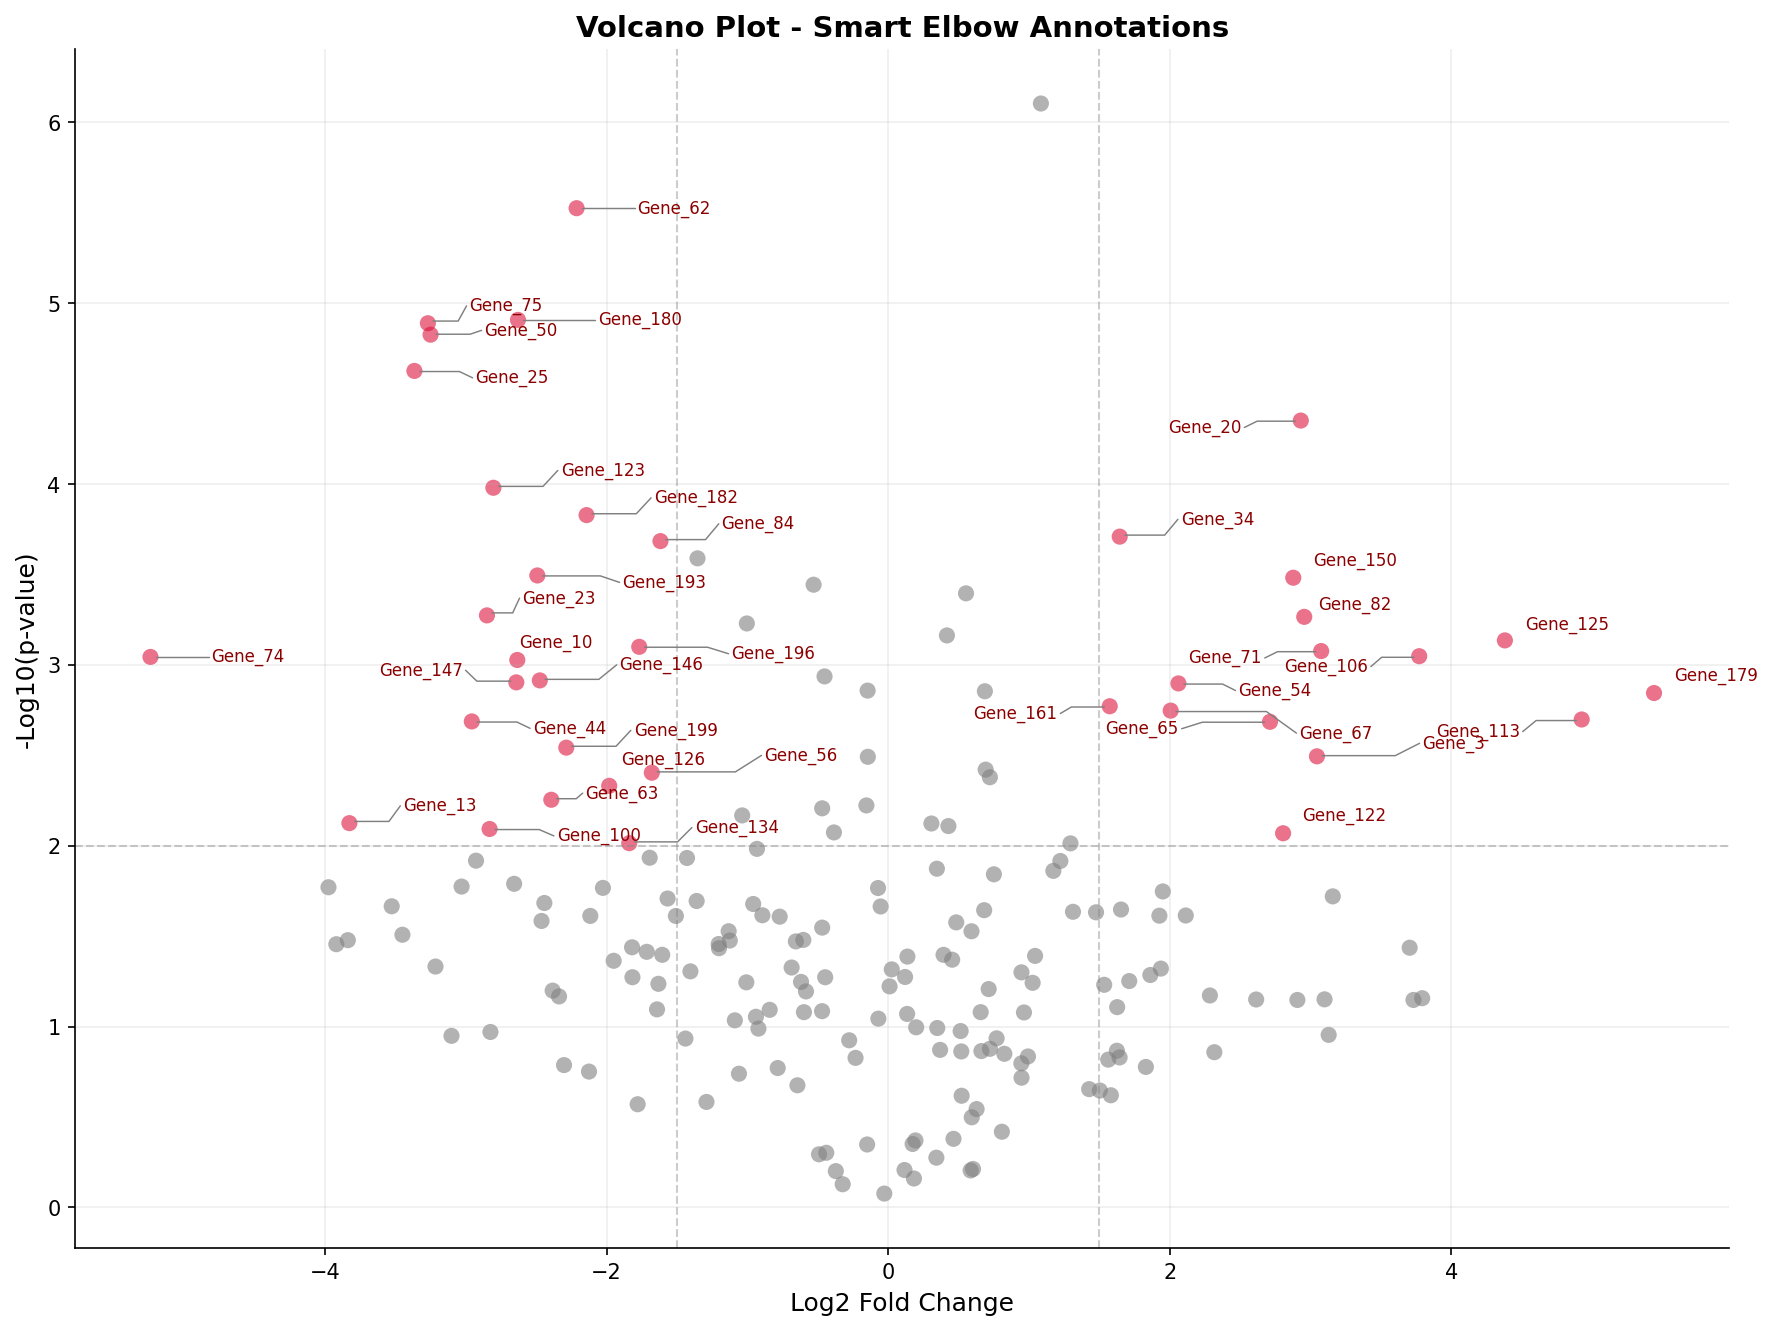
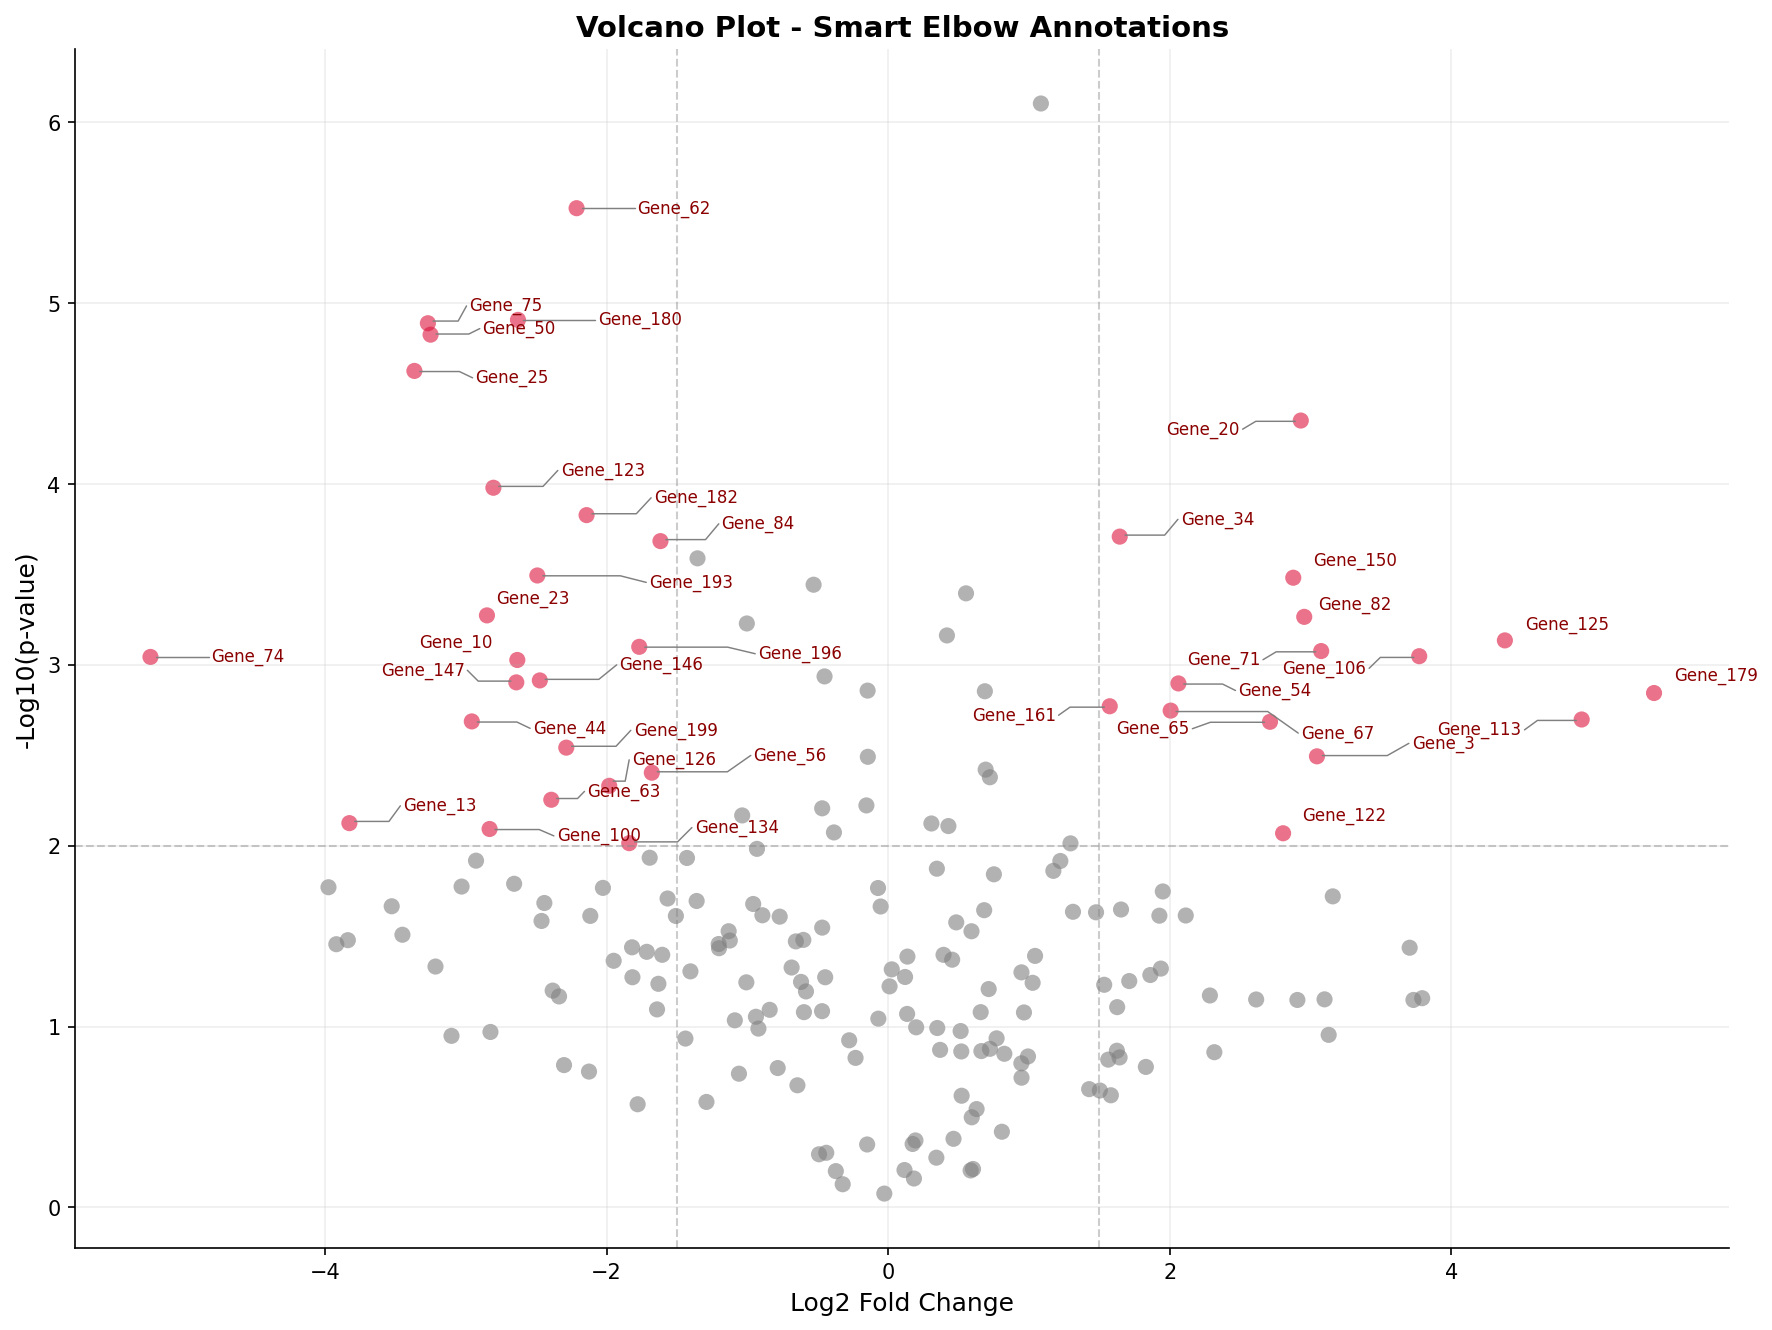
fix: shorter first horizontal segment, just past farthest dot
- First horizontal extends just 3% beyond farthest dot (was 15%)
- Heatmap uses same aligned pattern as margin annotation
- All segments properly aligned to prevent overlap

diff --git a/examples/heatmap_annotation.py b/examples/heatmap_annotation.py
@@ -1,9 +1,10 @@
 """
 Heatmap Row Annotation Example
 
-Demonstrates compact 3-segment connectors for annotating specific rows.
-All segments are SHORT and labels stay close to the heatmap.
-Uses aligned elbow positions to prevent line overlap.
+Same style as margin annotation:
+- All first horizontal segments end at same X (aligned)
+- All third horizontal segments start at same X (aligned)
+- Short segments, labels close to heatmap
 """
 
 import matplotlib.pyplot as plt
@@ -22,54 +23,52 @@ def annotate_heatmap_rows(
     label_color="black",
     line_color="gray",
     linewidth=0.6,
-    min_label_spacing=1.0,
+    min_label_spacing=1.2,
 ):
     """
-    Annotate specific rows in a heatmap with aligned 3-segment connectors.
+    Annotate heatmap rows with aligned 3-segment connectors.
 
-    All connectors have:
-    1. Short horizontal from heatmap edge to elbow_x (aligned)
-    2. Short diagonal from elbow to label_align_x
-    3. Short horizontal from label_align_x to label (aligned)
-
-    Aligned positions prevent line overlap.
+    Same pattern as margin annotation:
+    1. First horizontal: from heatmap edge to elbow_x (all aligned)
+    2. Diagonal: from elbow to label_align_x
+    3. Third horizontal: from label_align_x to label (all aligned)
     """
     xlim = ax.get_xlim()
     artists = []
 
-    # Sort by row position (top to bottom) - prevents crossing
+    # Sort by row position - prevents crossing
     sorted_data = sorted(zip(rows_to_annotate, row_labels), key=lambda x: x[0])
     rows_sorted = [x[0] for x in sorted_data]
     labels_sorted = [x[1] for x in sorted_data]
     n_labels = len(rows_sorted)
 
-    # Calculate label positions - center vertically, maintain order
+    # Center labels vertically, ensure no overlap
     total_height = (n_labels - 1) * min_label_spacing
     y_center = sum(rows_sorted) / n_labels
     y_start = y_center - total_height / 2
     label_y_positions = [y_start + i * min_label_spacing for i in range(n_labels)]
 
     if side == "right":
-        start_x = n_cols - 0.5
-        label_x = xlim[1] - 0.05
-        # Aligned positions - SHORT segments
-        elbow_x = n_cols - 0.5 + 0.2  # All first segments end here
-        label_align_x = label_x - 0.15  # All third segments start here
+        start_x = n_cols - 0.5  # Heatmap edge
+        label_x = xlim[1] - 0.05  # Label position
+        # Aligned positions - just past heatmap edge
+        elbow_x = n_cols - 0.5 + 0.15  # First segments end here
+        label_align_x = label_x - 0.12  # Third segments start here
         ha = "left"
     else:
         start_x = -0.5
         label_x = xlim[0] + 0.05
-        elbow_x = -0.5 - 0.2
-        label_align_x = label_x + 0.15
+        elbow_x = -0.5 - 0.15
+        label_align_x = label_x + 0.12
         ha = "right"
 
     for row, label, label_y in zip(rows_sorted, labels_sorted, label_y_positions):
         # 3-segment connector with aligned positions
         vertices = np.array([
-            [start_x, row],          # Start at heatmap edge
-            [elbow_x, row],          # End of first horizontal (aligned)
+            [start_x, row],           # Start at heatmap edge
+            [elbow_x, row],           # End of first horizontal (aligned)
             [label_align_x, label_y], # Start of third horizontal (aligned)
-            [label_x, label_y],      # At label
+            [label_x, label_y],       # At label
         ])
         codes = [Path.MOVETO, Path.LINETO, Path.LINETO, Path.LINETO]
 
@@ -109,8 +108,8 @@ def main():
     rows_to_annotate = [74, 75, 76]
     row_labels = ["Target_A", "Target_B", "Target_C"]
 
-    # Minimal extension - labels close to heatmap
-    ax.set_xlim(-0.5, n_cols + 1.5)
+    # Small extension for labels
+    ax.set_xlim(-0.5, n_cols + 1.2)
 
     annotate_heatmap_rows(
         ax,
@@ -141,7 +140,7 @@ def main():
     ax.spines["right"].set_visible(False)
     ax.spines["top"].set_visible(False)
 
-    fig.colorbar(im, ax=ax, fraction=0.02, pad=0.1)
+    fig.colorbar(im, ax=ax, fraction=0.02, pad=0.08)
 
     plt.savefig("heatmap_example.png", dpi=150, bbox_inches="tight")
     print("Saved heatmap_example.png")

diff --git a/examples/volcano_plot.py b/examples/volcano_plot.py
@@ -15,34 +15,34 @@ from pyforce import annotate_margin, annotate_points
 def create_volcano_data(n_points=200, seed=42):
     """Generate synthetic volcano plot data."""
     np.random.seed(seed)
-    
+
     log_fc = np.random.randn(n_points) * 2
     neg_log_p = np.abs(np.random.randn(n_points)) * 1.5 + np.abs(log_fc) * 0.3
-    
+
     for idx in [10, 25, 50, 75, 150, 180]:
         log_fc[idx] = np.random.choice([-1, 1]) * (2.5 + np.random.rand())
         neg_log_p[idx] = 3 + np.random.rand() * 2
-    
+
     return log_fc, neg_log_p
 
 
 def create_smart_elbow_figure():
     """Figure 1: Smart elbow annotations using adjustText."""
     log_fc, neg_log_p = create_volcano_data()
-    
+
     significant = (np.abs(log_fc) > 1.5) & (neg_log_p > 2)
     sig_indices = np.where(significant)[0]
     gene_names = [f"Gene_{i}" for i in sig_indices]
-    
+
     fig, ax = plt.subplots(figsize=(12, 9))
-    
+
     colors = np.where(significant, "crimson", "gray")
     ax.scatter(log_fc, neg_log_p, c=colors, s=60, alpha=0.6, edgecolors="none")
-    
+
     ax.axhline(y=2, color="gray", linestyle="--", alpha=0.4, linewidth=1)
     ax.axvline(x=-1.5, color="gray", linestyle="--", alpha=0.4, linewidth=1)
     ax.axvline(x=1.5, color="gray", linestyle="--", alpha=0.4, linewidth=1)
-    
+
     annotate_points(
         ax,
         log_fc,
@@ -61,14 +61,16 @@ def create_smart_elbow_figure():
         expand_points=3.0,
         expand_text=1.6,
     )
-    
+
     ax.set_xlabel("Log2 Fold Change", fontsize=12)
     ax.set_ylabel("-Log10(p-value)", fontsize=12)
-    ax.set_title("Volcano Plot - Smart Elbow Annotations", fontsize=14, fontweight="bold")
+    ax.set_title(
+        "Volcano Plot - Smart Elbow Annotations", fontsize=14, fontweight="bold"
+    )
     ax.grid(True, alpha=0.2)
     ax.spines["top"].set_visible(False)
     ax.spines["right"].set_visible(False)
-    
+
     plt.tight_layout()
     plt.savefig("volcano_elbow.png", dpi=150, bbox_inches="tight")
     print("Saved volcano_elbow.png")
@@ -78,24 +80,24 @@ def create_smart_elbow_figure():
 def create_margin_figure():
     """Figure 2: Margin annotations with aligned 3-segment connectors."""
     log_fc, neg_log_p = create_volcano_data()
-    
+
     significant = (np.abs(log_fc) > 1.5) & (neg_log_p > 2)
     sig_indices = np.where(significant)[0]
     gene_names = [f"Gene_{i}" for i in sig_indices]
-    
+
     fig, ax = plt.subplots(figsize=(14, 9))
-    
+
     colors = np.where(significant, "crimson", "gray")
     ax.scatter(log_fc, neg_log_p, c=colors, s=60, alpha=0.6, edgecolors="none")
-    
+
     ax.axhline(y=2, color="gray", linestyle="--", alpha=0.4, linewidth=1)
     ax.axvline(x=-1.5, color="gray", linestyle="--", alpha=0.4, linewidth=1)
     ax.axvline(x=1.5, color="gray", linestyle="--", alpha=0.4, linewidth=1)
-    
+
     # Expand X region for labels - more on left to avoid Y-axis overlap
     xlim = ax.get_xlim()
     ax.set_xlim(xlim[0] - 3.5, xlim[1] + 3.0)
-    
+
     annotate_margin(
         ax,
         log_fc,
@@ -109,7 +111,7 @@ def create_margin_figure():
         connection_color="gray",
         connection_linewidth=0.5,
     )
-    
+
     ax.set_xlabel("Log2 Fold Change", fontsize=12)
     ax.set_ylabel("-Log10(p-value)", fontsize=12)
     ax.yaxis.set_label_coords(-0.08, 0.5)  # Move Y label left
@@ -118,7 +120,7 @@ def create_margin_figure():
     ax.spines["top"].set_visible(False)
     ax.spines["left"].set_visible(False)
     ax.spines["right"].set_visible(False)
-    
+
     plt.tight_layout()
     plt.savefig("volcano_margin.png", dpi=150, bbox_inches="tight")
     print("Saved volcano_margin.png")

diff --git a/pyforce/annotations.py b/pyforce/annotations.py
@@ -895,12 +895,14 @@ def _create_margin_connector(
         end_x = label_x
         end_y = label_y
 
-        vertices = np.array([
-            [start_x, start_y],
-            [seg1_end_x, seg1_end_y],
-            [seg3_start_x, seg3_start_y],
-            [end_x, end_y],
-        ])
+        vertices = np.array(
+            [
+                [start_x, start_y],
+                [seg1_end_x, seg1_end_y],
+                [seg3_start_x, seg3_start_y],
+                [end_x, end_y],
+            ]
+        )
     else:
         # Vertical orientation (top/bottom)
         direction = 1 if margin_position == "top" else -1
@@ -1110,7 +1112,7 @@ def annotate_margin(
     # Calculate margin position and label positions
     if side in ("right", "left"):
         direction = 1 if side == "right" else -1
-        
+
         # Margin position (where labels are)
         if margin_x is None:
             if side == "right":
@@ -1119,17 +1121,17 @@ def annotate_margin(
                 margin_x = xlim[0] + x_range * 0.01
 
         # Calculate aligned X positions for clean non-overlapping lines:
-        # - elbow_x: where ALL first horizontal segments END
+        # - elbow_x: where ALL first horizontal segments END (just past farthest dot)
         # - label_align_x: where ALL third horizontal segments START
         
-        # Find the rightmost/leftmost dot to determine elbow position
+        # Find the rightmost/leftmost dot - elbow just slightly beyond
         if side == "right":
             max_dot_x = max(p["x"] for p in point_data)
-            elbow_x = max_dot_x + x_range * 0.15  # All first segments end here
-            label_align_x = margin_x - x_range * 0.02  # All third segments start here
+            elbow_x = max_dot_x + x_range * 0.03  # Just past farthest dot
+            label_align_x = margin_x - x_range * 0.02
         else:
             min_dot_x = min(p["x"] for p in point_data)
-            elbow_x = min_dot_x - x_range * 0.15
+            elbow_x = min_dot_x - x_range * 0.03  # Just past farthest dot
             label_align_x = margin_x + x_range * 0.02
 
         # Minimum spacing between labels
@@ -1140,7 +1142,7 @@ def annotate_margin(
         total_label_height = (n_labels - 1) * min_spacing
         y_center = (ylim[0] + ylim[1]) / 2
         y_start = y_center + total_label_height / 2
-        
+
         label_y_positions = [y_start - i * min_spacing for i in range(n_labels)]
 
         ha = "left" if side == "right" else "right"
